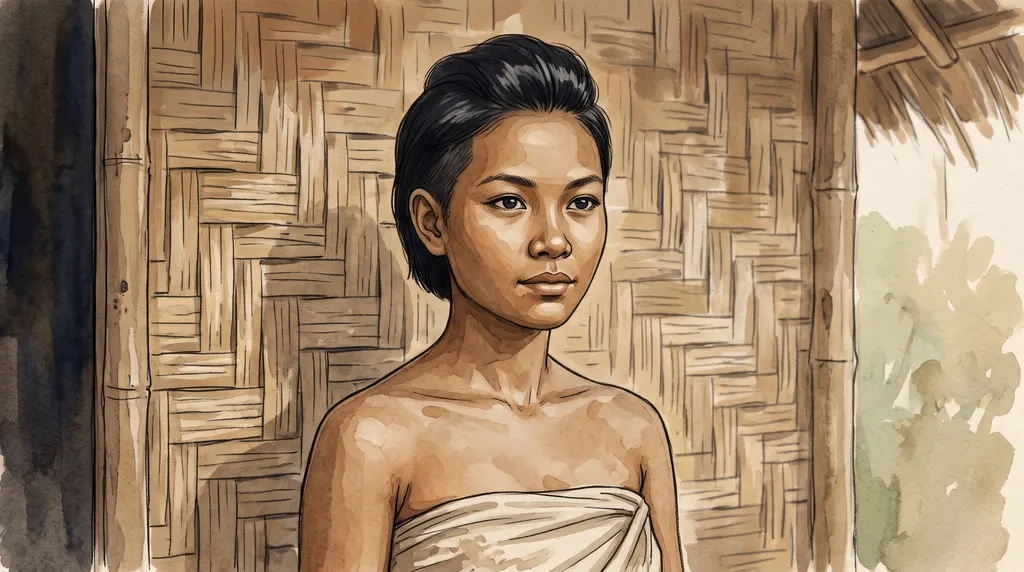
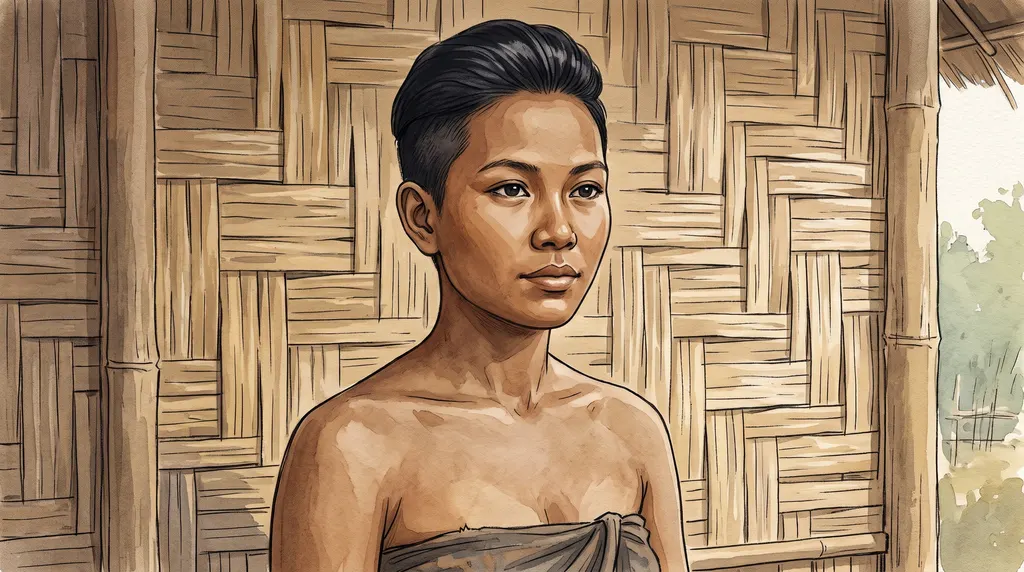
art: redo young noble, household head and young commoner woman portraits
Adult noble wife borrows the young noble image until its redo arrives.

diff --git a/art/gemini-redo.md b/art/gemini-redo.md
@@ -66,3 +66,19 @@ Medium portrait: a dignified Siamese female household head in her thirties with 
 Image 4 (`portrait.f.youth.commoner`):
 Portrait cropped from the upper shoulders up in three-quarter view: a young Siamese village woman of about eighteen with warm olive-brown skin, gentle oval face, high cheekbones, and calm dark eyes; black hair cropped level with the top of the ears, shaved close below and combed up off the forehead; soft daylight against a woven bamboo wall. (16:9 aspect ratio)
 ```
+
+---
+
+## ผลรอบแรก (1 พ.ย. 2569) และภาพที่ยังขาด
+
+ได้ภาพที่ใช้ได้ 3 ภาพ: หญิงสาวขุนนาง หญิงเจ้าเรือน และหญิงไพร่สาว
+ภาพที่ไม่ผ่านมี 3 ภาพ เก็บไว้ที่ `art/generated/unused/`
+- ทรงผมเป็นบ็อบเกล้าสูง ทั้งที่กติกาห้ามไว้
+- ข้างภาพเป็นกระดาษขาวว่าง ซึ่งจะโผล่ออกมาเมื่อตัดเข้ากรอบ
+
+ตอนนี้ `portrait.f.adult.noble` ยืมภาพหญิงสาวขุนนางไปใช้ก่อน เลยยังต้องสร้างภาพนี้ใหม่อีก 1 ภาพ ให้วาง prompt ด้านล่างต่อจาก style block ของชุดที่ 2:
+
+```text
+Image (`portrait.f.adult.noble`):
+Medium portrait, full-bleed painting filling the whole 16:9 frame edge to edge with no white paper margins: a well-to-do Siamese noble wife of about thirty-five, visibly older than an eighteen-year-old, with warm olive-brown skin, gentle oval face, high cheekbones, faint lines at the eyes, calm dark eyes, and teeth blackened from chewing betel; her black hair is cut very short like a man's, cropped level with the top of the ears, the sides and back shaved close, the top brushed straight up off the forehead, nothing hanging down; wearing a black wrap skirt and a white muslin breast-cloth wrapped horizontally around her chest with both ends thrown back over both shoulders, pear-shaped gold earrings and gold rings on her last three fingers, seated on a reed mat beside a lacquered betel box in a timber house. Avoid: bob haircut, hair bun, hair covering the ears, hair longer than the earlobe, white borders, one-shoulder diagonal sash. (16:9 aspect ratio)
+```
